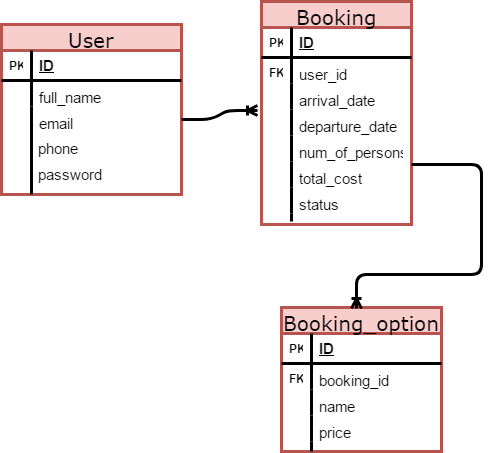
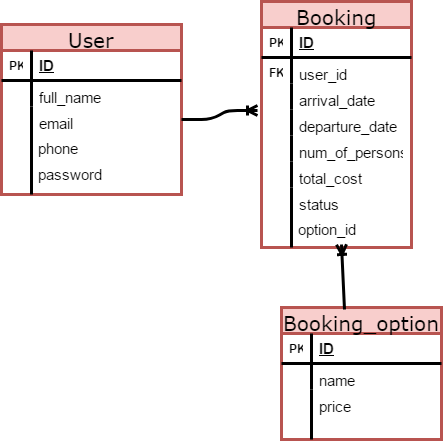
validation request

Changed region(s): [[0.0, 0.0, 1.0, 1.0]]

diff --git a/app/Http/Requests/Booking/UpdateBookingRequest.php b/app/Http/Requests/Booking/UpdateBookingRequest.php
@@ -1,0 +1,36 @@
+<?php
+
+namespace App\Http\Requests\Booking;
+
+use Illuminate\Foundation\Http\FormRequest;
+
+class UpdateBookingRequest extends FormRequest
+{
+    /**
+     * Determine if the user is authorized to make this request.
+     *
+     * @return bool
+     */
+    public function authorize()
+    {
+        return true;
+    }
+
+    /**
+     * Get the validation rules that apply to the request.
+     *
+     * @return array
+     */
+    public function rules()
+    {
+        return [
+            'email' => 'sometimes|required|email|unique:users',
+            'name' => 'sometimes|required|string|min:3|max:200',
+            'phone' => 'sometimes|required|digits:10',
+            'arrival_date' => 'sometimes|required|date',
+            'departure_date' => 'sometimes|required|date',
+            'persons_num' => 'sometimes|required|integer|min:1',
+            'booking_option_id' => 'sometimes|required|exists:booking_options,id',
+        ];
+    }
+}

diff --git a/app/Http/Requests/Booking/StoreBookingRequest.php b/app/Http/Requests/Booking/StoreBookingRequest.php
@@ -1,0 +1,36 @@
+<?php
+
+namespace App\Http\Requests\Booking;
+
+use Illuminate\Foundation\Http\FormRequest;
+
+class StoreBookingRequest extends FormRequest
+{
+    /**
+     * Determine if the user is authorized to make this request.
+     *
+     * @return bool
+     */
+    public function authorize()
+    {
+        return true;
+    }
+
+    /**
+     * Get the validation rules that apply to the request.
+     *
+     * @return array
+     */
+    public function rules()
+    {
+        return [
+            'email' => 'required|email|unique:users',
+            'name' => 'required|string|min:3|max:200',
+            'phone' => 'required|digits:10',
+            'arrival_date' => 'required|date',
+            'departure_date' => 'required|date',
+            'persons_num' => 'required|integer|min:1',
+            'booking_option_id' => 'required|exists:booking_options,id',
+        ];
+    }
+}

diff --git a/database/migrations/2021_02_11_123304_create_bookings_table.php b/database/migrations/2021_02_11_123304_create_bookings_table.php
@@ -19,9 +19,10 @@ class CreateBookingsTable extends Migration
             $table->date('arrival_date');
             $table->date('departure_date');
             $table->integer('persons_num');
-            $table->float('total_cost');
+            $table->float('total_cost')->default('0');
             $table->enum('status',
-                ['pending','completed','rejected']);
+                ['pending','completed','rejected'])->default('pending');
+            $table->integer('booking_option_id');
             $table->timestamps();
         });
     }

diff --git a/app/models/BookingOption.php b/app/models/BookingOption.php
@@ -8,8 +8,8 @@ class BookingOption extends Model
 {
     protected $guarded = ['id','created_at','updated_at'];
 
-    public function booking()
+    public function bookings()
     {
-        return $this->belongsTo(Booking::class);
+        return $this->hasMany(Booking::class);
     }
 }

diff --git a/database/migrations/2021_02_11_123319_create_booking_options_table.php b/database/migrations/2021_02_11_123319_create_booking_options_table.php
@@ -17,7 +17,6 @@ class CreateBookingOptionsTable extends Migration
             $table->id();
             $table->string('name');
             $table->float('price');
-            $table->integer('booking_id');
             $table->timestamps();
         });
     }

diff --git a/app/models/Booking.php b/app/models/Booking.php
@@ -12,4 +12,9 @@ class Booking extends Model
     {
         return $this->belongsTo(User::class);
     }
+
+    public function option()
+    {
+        return $this->belongsTo(BookingOption::class);
+    }
 }

diff --git a/app/Http/Controllers/web/BookingController.php b/app/Http/Controllers/web/BookingController.php
@@ -1,0 +1,11 @@
+<?php
+
+namespace App\Http\Controllers\web;
+
+use App\Http\Controllers\Controller;
+use Illuminate\Http\Request;
+
+class BookingController extends Controller
+{
+    //
+}
